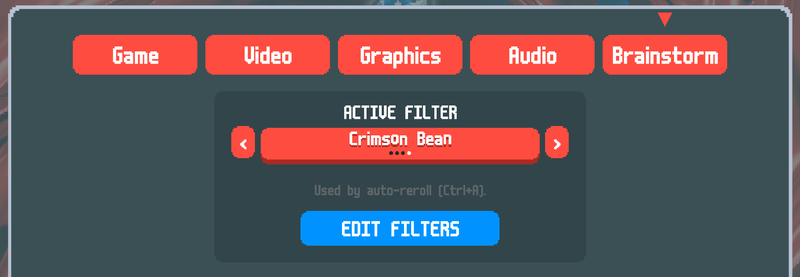
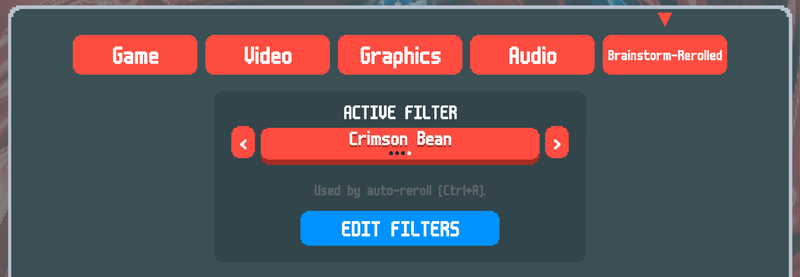
Thunderstore package; show the mod as Brainstorm-Rerolled

diff --git a/thunderstore/README.md b/thunderstore/README.md
@@ -1,0 +1,61 @@
+# Brainstorm Rerolled
+
+A Balatro mod for finding seeds. Describe the run you want (a Charm Tag with The Soul, a Negative Blueprint in the first shop, Observatory by ante 2, ...) and auto-reroll searches millions of seeds per second in the background until it finds one.
+
+Built on [Brainstorm](https://github.com/OceanRamen/Brainstorm) by [OceanRamen](https://github.com/OceanRamen) and [Immolate](https://github.com/SpectralPack/Immolate) by SpectralPack. Please credit them; this project builds on their work.
+
+## Disclaimer
+
+Claude Code and Gemini were both used in some capacity for this project both as research helpers and coding assistants. I am making this project public since I think the end product is neat but please give all actual credit to the original authors mentioned above.
+
+## Features
+
+- **Auto-reroll**: `Ctrl + A` searches for a seed that matches your active filter and starts a run on it. The game stays responsive while it searches, showing how many seeds it has checked. Press `Ctrl + A` again to cancel.
+- **Filters built in game**: make named filters from conditions, save as many as you like, and pick the active one.
+- **Fast reroll**: `Ctrl + R` restarts the run on a new random seed.
+- **Save states**: hold `Z` and press `1`–`5` to save the current run to a slot; hold `X` and press `1`–`5` to load it.
+
+Works on Windows, Linux and Steam Deck through Proton, and macOS (Apple Silicon and Intel). Searching needs no extra software: everything runs on the CPU.
+
+## Installation
+
+Install with a Thunderstore mod manager (r2modman or the Thunderstore Mod Manager); Lovely is installed with it automatically. Brainstorm-Rerolled adds a **Brainstorm-Rerolled** tab to the settings menu.
+
+**macOS only:** macOS sometimes blocks code downloaded from the internet until you allow it. If auto-reroll reports that it is unavailable, run `xattr -d com.apple.quarantine` on the `Immolate.dylib` file in the mod's folder once, then restart the game.
+
+## Filters
+
+Open **Settings → Brainstorm-Rerolled → EDIT FILTERS**. A filter is a list of conditions, and a seed matches only if **every** condition is true. Choose which filter auto-reroll uses with **ACTIVE FILTER** in the same tab.
+
+![The Brainstorm-Rerolled settings tab](https://raw.githubusercontent.com/ABGamma/Brainstorm-Rerolled/main/docs/images/settings-tab.png)
+
+| Condition | Example |
+|---|---|
+| Tag | Charm Tag on the ante 1 Small Blind |
+| Voucher | Observatory in the ante 2 shop |
+| Booster pack | Mega Arcana Pack among the first 2 packs of ante 1 |
+| Joker in shop | Negative Blueprint among the first 4 shop cards of ante 1 |
+| Soul in Arcana pack | The Soul in a Mega Arcana pack, giving Perkeo |
+| Boss blind | Crimson Heart as the ante 8 boss |
+
+Every condition applies to one ante or a range of antes ("Burglar anywhere in antes 6–8"). For example, this filter asks for a Turtle Bean in ante 8, a Burglar in ante 7 or 8, Crimson Heart as the ante 8 boss, and a Negative Blueprint early in ante 2:
+
+![Editing a filter with four conditions](https://raw.githubusercontent.com/ABGamma/Brainstorm-Rerolled/main/docs/images/edit-filter.png)
+
+Jokers are picked from a card grid like the Collection screen:
+
+![The joker picker](https://raw.githubusercontent.com/ABGamma/Brainstorm-Rerolled/main/docs/images/joker-picker.png)
+
+Good to know:
+
+- **Vouchers** in later antes assume you bought the vouchers of earlier antes (an upgraded voucher only appears after its base voucher).
+- **Shop cards** count 2 per shop plus 2 per reroll.
+- **Boss blinds** assume you never reroll the boss: Director's Cut, Retcon and the Boss Tag change that ante's boss and every later one.
+- **Steel Joker, Stone Joker, Lucky Cat, Golden Ticket and Glass Joker** only appear once your deck has a card with that enhancement. To search for them, turn on **Assume 1 of each enhanced card** for the filter. If you never get those cards, about 1 in 55 common/uncommon shop jokers can differ from the prediction.
+- Very specific filters can take a long time to find a seed. The search shows its progress and can be cancelled at any time.
+
+Two starter filters are included: **Charm + Soul** and **Charm + Soul + Observatory**.
+
+## Source and license
+
+Source code, documentation and issue tracker: https://github.com/ABGamma/Brainstorm-Rerolled. Licensed under [CC BY-NC-SA 4.0](https://github.com/ABGamma/Brainstorm-Rerolled/blob/main/Immolate/LICENSE).

diff --git a/README.MD b/README.MD
@@ -19,8 +19,8 @@ Claude Code and Gemini were both used in some capacity for this project both as 
 ## Installation
 
 1. Install [Lovely](https://github.com/ethangreen-dev/lovely-injector/releases), following its instructions for your system.
-2. Download `Brainstorm.zip` from the [latest release](https://github.com/ABGamma/Brainstorm-Rerolled/releases) and unzip it.
-3. Move the `Brainstorm` folder into your Balatro mods folder:
+2. Download `Brainstorm-Rerolled.zip` from the [latest release](https://github.com/ABGamma/Brainstorm-Rerolled/releases) and unzip it.
+3. Move the `Brainstorm-Rerolled` folder into your Balatro mods folder:
 
    | System | Mods folder |
    |---|---|
@@ -31,18 +31,18 @@ Claude Code and Gemini were both used in some capacity for this project both as 
 4. **macOS only:** macOS sometimes blocks code downloaded from the internet until you allow it. Run this once in Terminal (it is fine if it prints "No such xattr": the file was not blocked):
 
    ```
-   xattr -d com.apple.quarantine ~/Library/Application\ Support/Balatro/Mods/Brainstorm/Immolate.dylib
+   xattr -d com.apple.quarantine ~/Library/Application\ Support/Balatro/Mods/Brainstorm-Rerolled/Immolate.dylib
    ```
 
-5. Start the game. Brainstorm adds a **Brainstorm** tab to the settings menu.
+5. Start the game. Brainstorm-Rerolled adds a **Brainstorm-Rerolled** tab to the settings menu.
 
 Supported: Windows, Linux and Steam Deck through Proton, and macOS (Apple Silicon and Intel). Searching needs no extra software: everything runs on the CPU.
 
 ## Filters
 
-Open **Settings → Brainstorm → EDIT FILTERS**. A filter is a list of conditions, and a seed matches only if **every** condition is true. Choose which filter auto-reroll uses with **ACTIVE FILTER** in the same tab.
+Open **Settings → Brainstorm-Rerolled → EDIT FILTERS**. A filter is a list of conditions, and a seed matches only if **every** condition is true. Choose which filter auto-reroll uses with **ACTIVE FILTER** in the same tab.
 
-<p align="center"><img src="docs/images/settings-tab.png" alt="The Brainstorm settings tab: ACTIVE FILTER and EDIT FILTERS" width="600"></p>
+<p align="center"><img src="docs/images/settings-tab.png" alt="The Brainstorm-Rerolled settings tab: ACTIVE FILTER and EDIT FILTERS" width="600"></p>
 
 Save as many filters as you like, and edit, delete or switch between them:
 
@@ -85,7 +85,7 @@ The repository holds the mod (`Brainstorm/`, Lua) and the seed searcher it uses 
 
 Building:
 
-- **GitHub Actions** builds and tests on Windows and macOS when started by hand (Actions → build → Run workflow), and attaches a ready-to-install `Brainstorm` folder to the run.
+- **GitHub Actions** builds and tests on Windows and macOS when started by hand (Actions → build → Run workflow), and attaches a ready-to-install `Brainstorm-Rerolled` folder to the run, plus a Thunderstore package built from `thunderstore/` (manifest, Thunderstore page and icon). Ticking "Publish a release" also creates a GitHub release with both.
 - **Locally**: `Immolate/build.sh` (macOS/Linux) or `Immolate\build.bat` (Windows, from the *x64 Native Tools Command Prompt for VS 2022*).
 - **Windows DLL from Linux** (needs MinGW-w64 and Wine):
 

diff --git a/docs/ARCHITECTURE.md b/docs/ARCHITECTURE.md
@@ -263,7 +263,7 @@ versions (Vagabond: uncommon in 1.0.0, rare in 1.0.1), and the rarity lookup
 must use the current version.
 
 **Saved filters and the in-game builder** are `Brainstorm/UI/filter_builder.lua`.
-Settings > Brainstorm shows the ACTIVE FILTER (a cycler over the saved
+Settings > Brainstorm-Rerolled shows the ACTIVE FILTER (a cycler over the saved
 filters, or None) and an EDIT FILTERS button. Filters are kept in
 `Brainstorm.config.filters` (`{ active = n, list = { {name,
 assume_enhanced, conditions}, ... } }`); the active one is turned into the
@@ -438,7 +438,7 @@ of once per draw, and the key strings are built once instead of per item.
 compiler builds `Immolate.dll` and Wine runs the tests (commands in the
 README). **macOS builds need Apple's tools**, so they run on GitHub Actions:
 `.github/workflows/build.yml` builds and tests on real Windows and macOS
-machines, then publishes a ready-to-install `Brainstorm` folder as a
+machines, then publishes a ready-to-install `Brainstorm-Rerolled` folder as a
 downloadable artifact. It only runs when started by hand (Actions tab ->
 build -> Run workflow) to stay within the free minutes of a private repo.
 
@@ -495,7 +495,7 @@ built.
 ## 10. File map
 
 ```
-Brainstorm/                    the mod folder players install
+Brainstorm/                    the mod (players install it as Brainstorm-Rerolled/)
   lovely.toml                  tells Lovely what to inject
   Core/Brainstorm.lua          keybinds, save states, auto-reroll flow
   Core/native.lua              FFI bridge to the native library
@@ -520,5 +520,6 @@ Immolate/
   tests/                       golden, API, math, prefilter, fastscan, filterprog tests + bench
 docs/
   ARCHITECTURE.md              this file
-.github/workflows/build.yml    CI: build + test + package
+.github/workflows/build.yml    CI: build + test + package (+ release)
+thunderstore/                  manifest.json, README.md, icon.png for the Thunderstore package
 ```
